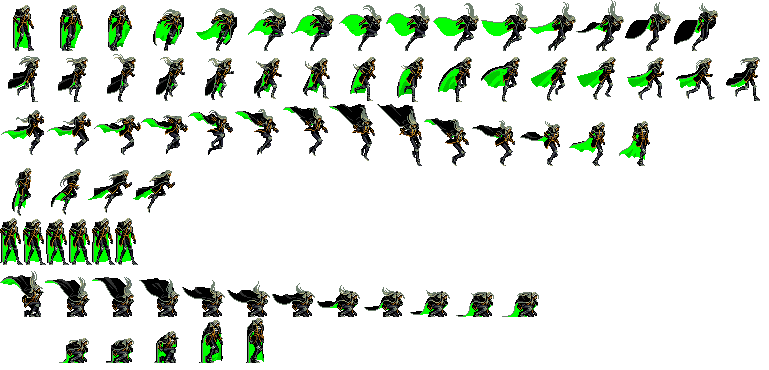
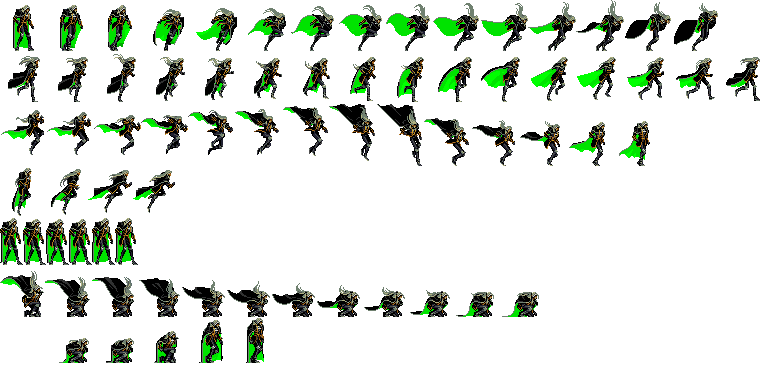
Updated: Option menu can now change Alucard's cape

diff --git a/src/ajupdate_game_core.c b/src/ajupdate_game_core.c
@@ -7,6 +7,19 @@
 
 #include "../include/my_runner.h"
 
+void aju_current_selector_color(option_scene *_scene)
+{
+    int idx = _scene->selector_index;
+    for (int i = 0; i < OPTION_SLIDER_COUNT; i++) {
+        if (i == idx) {
+            sfRectangleShape_setFillColor(_scene->slider[i]->indicator, sfYellow);
+        }
+        else {
+            sfRectangleShape_setFillColor(_scene->slider[i]->indicator, sfWhite);
+        }
+    }
+}
+
 void aju_option_selector(option_scene *_scene, sfKeyCode key)
 {
     int idx = _scene->selector_index;
@@ -61,14 +74,49 @@ void aju_option_foreground(option_scene *_scene, sfEvent *_event)
             aju_option_selector(_scene, sfKeyRight);
         }
     }
+    aju_current_selector_color(_scene);
     aju_option_preview_rect(_scene);
+}
+
+void aju_edit_pixel(option_scene *_scene, int x, int y, sfUint8 color)
+{
+    if (color == 255) {
+        sfColor color = {_scene->slider[0]->curr_value * 17, _scene->slider[1]->curr_value * 17, _scene->slider[2]->curr_value * 17, 255};
+        sfImage_setPixel(_scene->alucard_img, x, y, color);
+    }
+    if (color == 227) {
+        sfColor color = {(_scene->slider[0]->curr_value * 17) / 3 * 2, (_scene->slider[1]->curr_value * 17) / 3 * 2, (_scene->slider[2]->curr_value * 17) / 3 * 2, 255};
+        sfImage_setPixel(_scene->alucard_img, x, y, color);
+    }
+    if (color == 170) {
+        sfColor color = {(_scene->slider[0]->curr_value * 17) / 3 * 1, (_scene->slider[1]->curr_value * 17) / 3 * 1, (_scene->slider[2]->curr_value * 17) / 3 * 1, 255};
+        sfImage_setPixel(_scene->alucard_img, x, y, color);
+    }
+}
+
+void aju_edit_alucard_cape(option_scene *_scene)
+{
+    sfTexture *org_txt = sfTexture_createFromFile("img/alucard/alucard_sheet_capes.png", NULL);
+    _scene->alucard_img = sfTexture_copyToImage(org_txt);
+    sfTexture_destroy(org_txt);
+    sfVector2u img_size = sfImage_getSize(_scene->alucard_img);
+    for (unsigned int y = 0; y < img_size.y; y++) {
+        for (unsigned int x = 0; x < img_size.x; x++) {
+            sfColor color = sfImage_getPixel(_scene->alucard_img, x, y);
+            aju_edit_pixel(_scene, x, y, color.g);
+        }
+    }
+    sfTexture_destroy(_scene->player_txt);
+    _scene->player_txt = sfTexture_createFromImage(_scene->alucard_img, NULL);
 }
 
 void aju_option_scene_event(option_scene *_scene, sfEvent *_event)
 {
     if (_event->type == sfEvtKeyPressed) {
-        if (_event->key.code == sfKeyEscape)
+        if (_event->key.code == sfKeyEscape) {
+            aju_edit_alucard_cape(_scene);
             *_scene->game_state = MENU;
+        }
     }
     aju_option_foreground(_scene, _event);
 }

diff --git a/src/ajinitialize_game_core.c b/src/ajinitialize_game_core.c
@@ -63,10 +63,12 @@ void aji_option_foreground(option_scene *_scene)
     aji_preview_rect(_scene);
 }
 
-void aji_option_scene(option_scene *_scene, sfRenderWindow *_window)
+void aji_option_scene(option_scene *_scene, sfRenderWindow *_window, sfTexture *_alk_txt)
 {
     _scene->window = _window;
     _scene->selector_index = 0;
+    _scene->original_txt = sfTexture_copy(_alk_txt);
+    _scene->player_txt = _alk_txt;
     aji_option_background(&_scene->background);
     aji_option_foreground(_scene);
 }
@@ -90,5 +92,5 @@ void aji_game_core(game_core *_game_core, char *map)
     aji_game_over_scene(&_game_core->game_over_scene, _game_core->window);
     aji_menu_scene(&_game_core->menu_scene, _game_core->window);
     aji_running_scene(&_game_core->running_scene, _game_core->window, map);
-    aji_option_scene(&_game_core->option_scene, _game_core->window);
+    aji_option_scene(&_game_core->option_scene, _game_core->window, _game_core->running_scene.player.texture);
 }

diff --git a/include/my_runner.h b/include/my_runner.h
@@ -265,7 +265,12 @@ typedef struct option_scene {
     sfClock *clock;
     menu_background background;
     slider_t *slider[3];
+
     sfRectangleShape *preview_rect;
+    sfTexture *original_txt;
+    sfTexture *player_txt;
+    sfImage *alucard_img;
+
     int *game_state;
     int selector_index;
 } option_scene;
